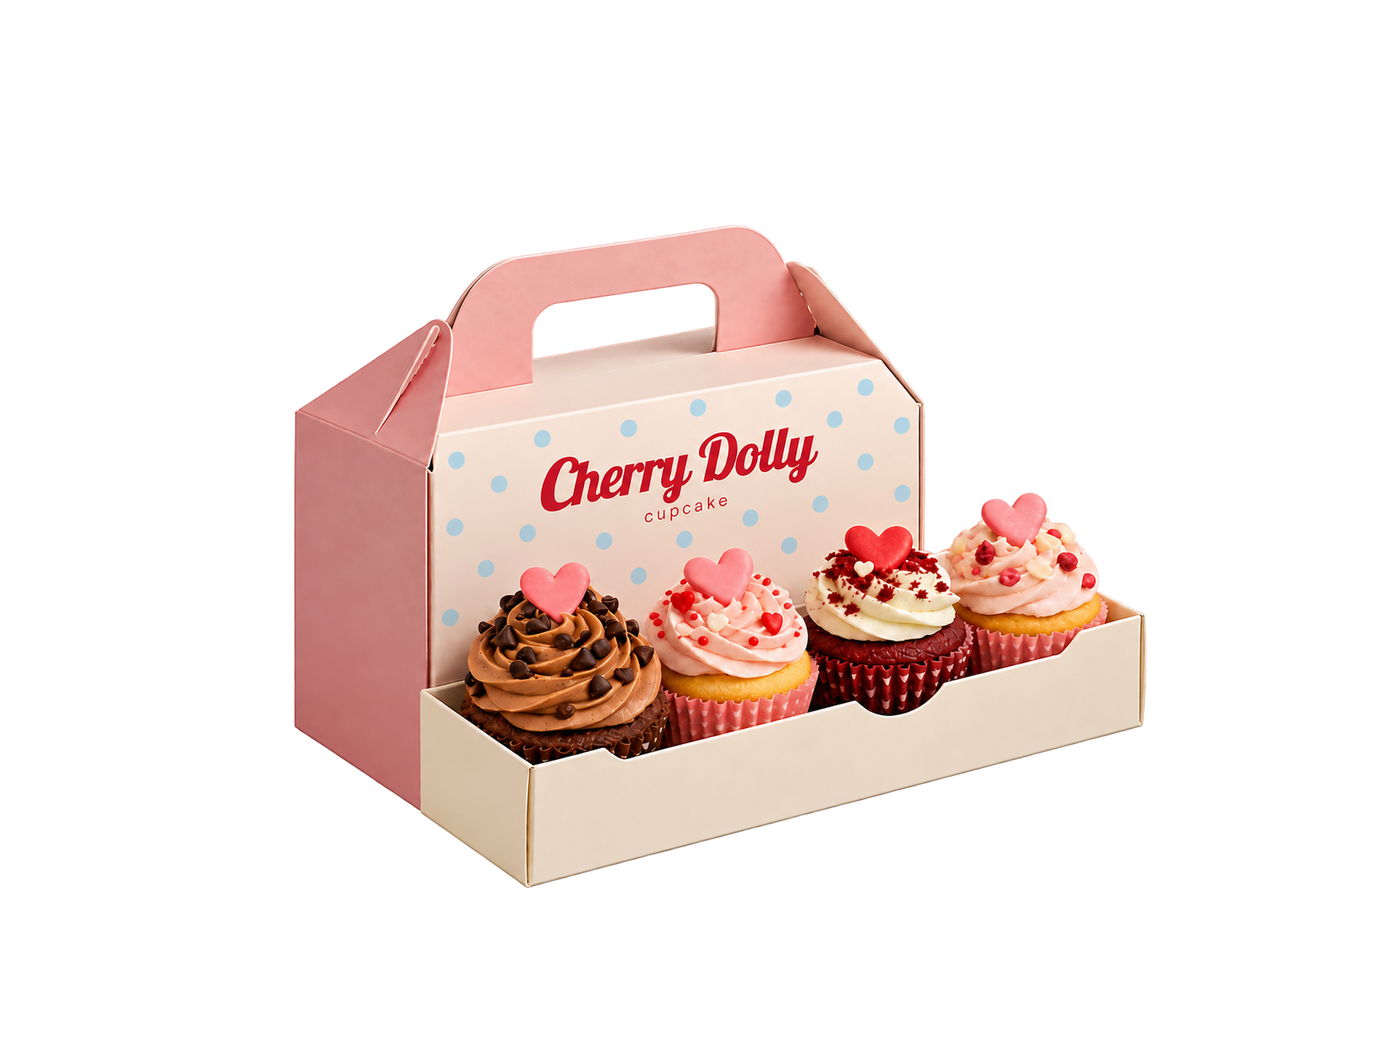
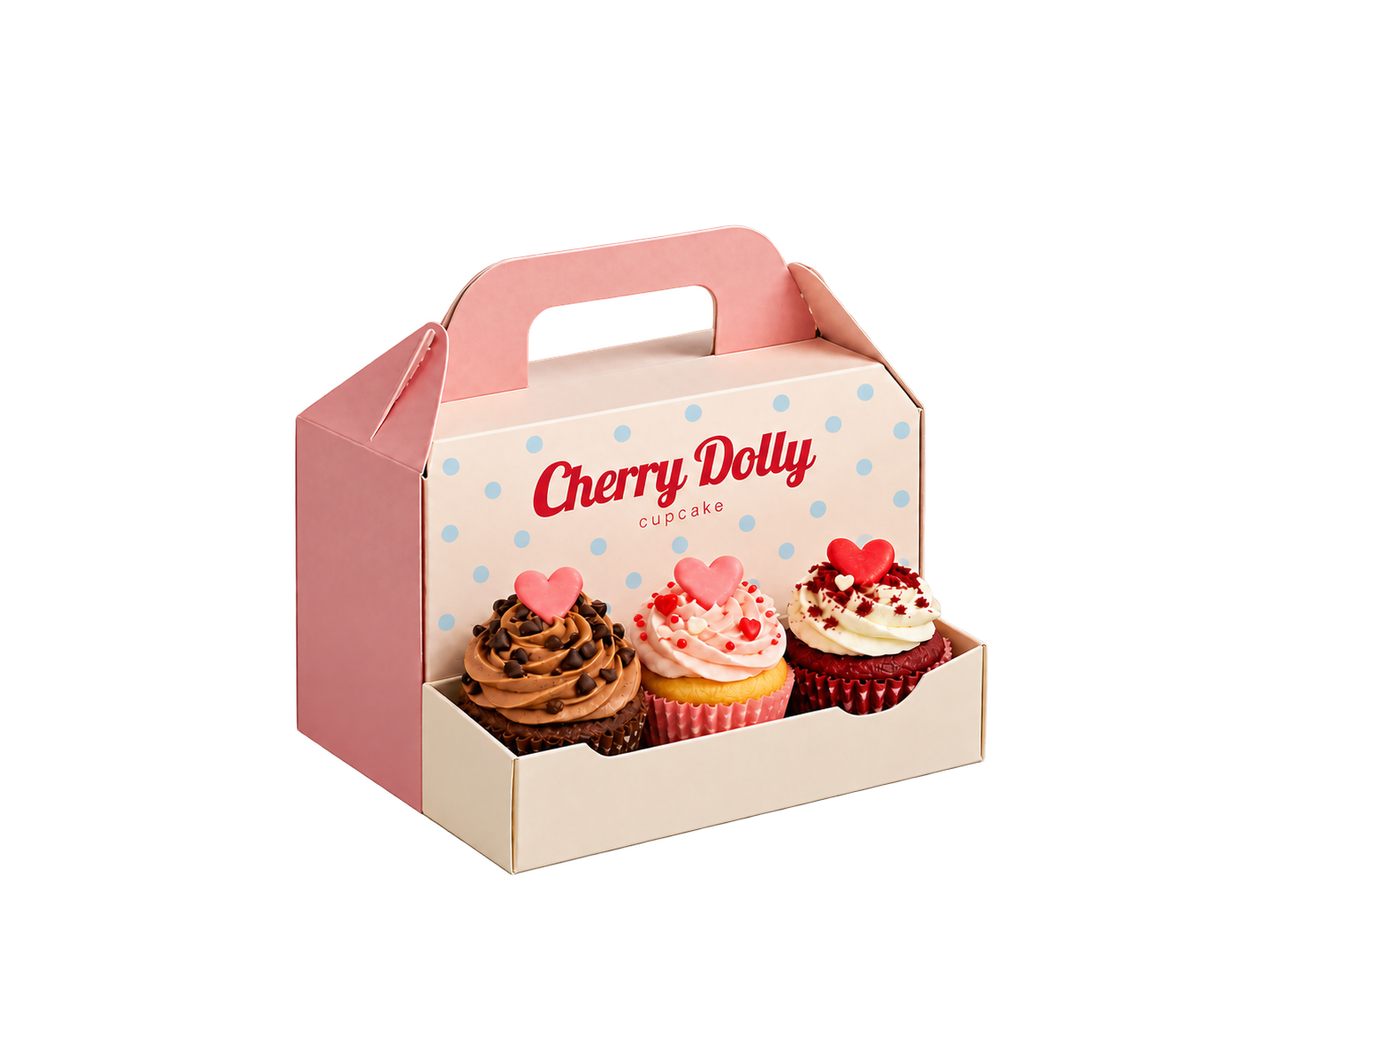
Fit three cupcakes into a tray matching the package width

diff --git a/README.md b/README.md
@@ -64,7 +64,7 @@ npm run deploy:pages
 
 見出し・コピー・大きなロゴはHTMLで、商品画像とは別に制御します。想定アセットの `logo-wordmark.png` は必須ではなく、可読性と拡大表示のためHTMLロゴを採用しています。パッケージ面に印刷された文字は商品画像の一部です。
 
-同梱PNGは、ユーザー提供のポスターを参照してAIで再構成した、写真風の透明背景素材です。商品ごとの色、トッピング、ハート柄のカップと、淡いピンクの持ち手付き紙箱を参照しています。ひとくち後のPNGも、通常画像と対になる透明背景素材です。箱の印刷ロゴは、サイトと同じ赤い筆記体の `Cherry Dolly` に統一し、ロゴがある前面に薄いパステルブルーの水玉を配置しています。サイトのHTMLロゴ・コピーと商品名も Cherry Dolly の設定を使用します。
+同梱PNGは、ユーザー提供のポスターを参照してAIで再構成した、写真風の透明背景素材です。商品ごとの色、トッピング、ハート柄のカップと、淡いピンクの持ち手付き紙箱を参照しています。ひとくち後のPNGも、通常画像と対になる透明背景素材です。箱の印刷ロゴは、サイトと同じ赤い筆記体の `Cherry Dolly` に統一し、ロゴがある前面に薄いパステルブルーの水玉を配置しています。箱の前面トレーは本体と同じ幅に揃え、3個のカップケーキを並べています。サイトのHTMLロゴ・コピーと商品名も Cherry Dolly の設定を使用します。
 
 `public/images/placeholders/` のSVGは、初期実装時に本プロジェクト用に作成した独自の仮イラストです。PNGの参照素材とは別に、画像未配置時の表示を保つために残しています。
 
